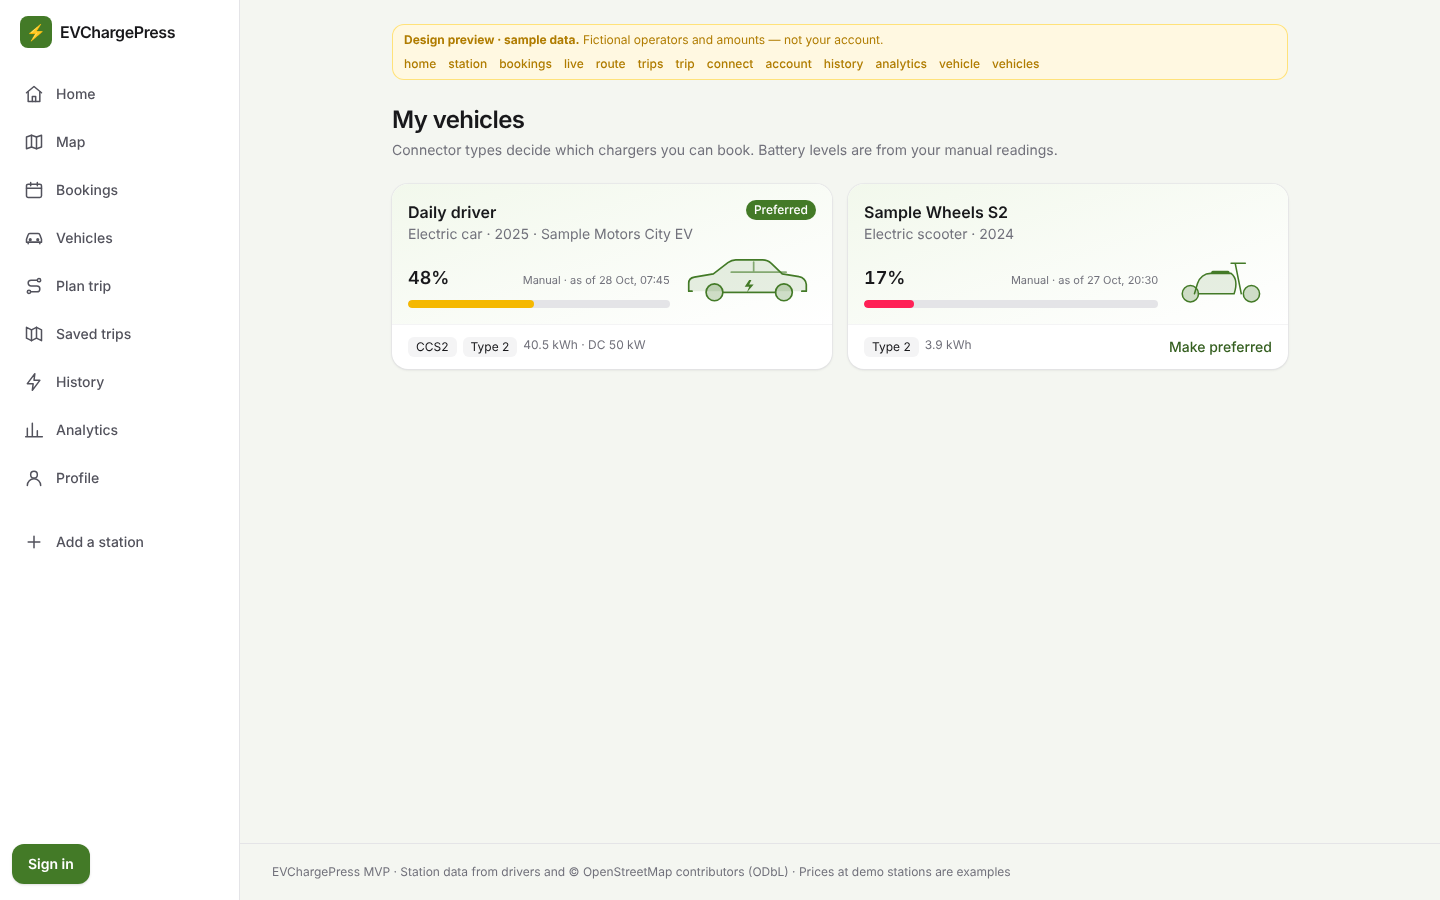
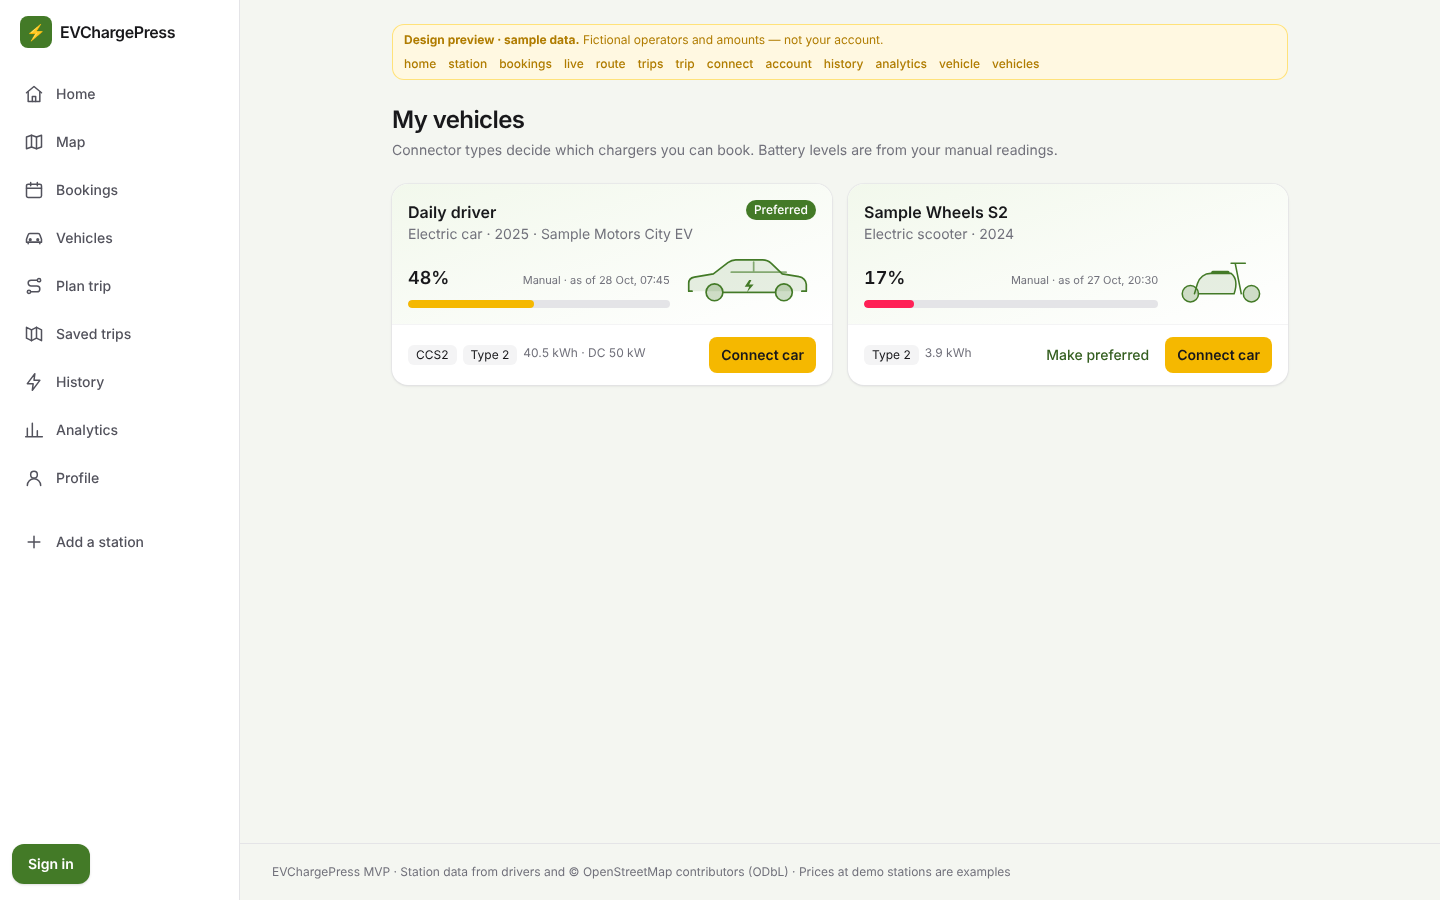
Make Connect car easy to find: buttons on My vehicles cards, vehicle header and account menu

Changed region(s): [[0.2812, 0.3733, 0.6875, 0.4356], [0.7188, 0.3733, 0.9062, 0.4356]]

diff --git a/web/src/app/vehicles/page.tsx b/web/src/app/vehicles/page.tsx
@@ -3,6 +3,7 @@ import Link from "next/link";
 import { redirect } from "next/navigation";
 import { setPreferredVehicle } from "@/app/account/actions";
 import { VehicleCard } from "@/components/charging/VehicleCard";
+import { PlugIcon } from "@/components/nav/icons";
 import { getCurrentUser } from "@/lib/supabase/server";
 import { getProfile, latestReadings, listVehicles } from "@/server/account";
 import { connectionsFor } from "@/server/vehicle-connect";
@@ -22,7 +23,7 @@ export default async function VehiclesPage({ searchParams }: PageProps<"/vehicle
       <div className="flex flex-wrap items-center justify-between gap-3">
         <div>
           <h1 className="text-2xl font-semibold tracking-tight">My vehicles</h1>
-          <p className="mt-1 text-sm text-zinc-500">Connector types decide which chargers you can book. Battery levels are from your manual readings.</p>
+          <p className="mt-1 text-sm text-zinc-500">Connector types decide which chargers you can book. Tap <strong>Connect car</strong> to read battery, range and location from the car itself.</p>
         </div>
         <Link href="/vehicles/new" className="inline-flex min-h-11 items-center rounded-xl bg-energy-600 px-4 text-sm font-medium text-white shadow-sm hover:bg-energy-700">
           Add vehicle
@@ -47,12 +48,19 @@ export default async function VehiclesPage({ searchParams }: PageProps<"/vehicle
                 preferred={preferred}
                 connected={connections[v.id] && connections[v.id].status !== "pending" ? { simulated: connections[v.id].provider === "simulator" || connections[v.id].mode === "simulated" } : null}
                 action={
-                  !preferred && (
-                    <form action={setPreferredVehicle}>
-                      <input type="hidden" name="id" value={v.id} />
-                      <button className="min-h-9 rounded-lg px-3 text-sm font-medium text-energy-700 hover:bg-energy-50 dark:text-energy-400 dark:hover:bg-energy-500/10">Make preferred</button>
-                    </form>
-                  )
+                  <span className="flex flex-wrap items-center gap-1">
+                    {!preferred && (
+                      <form action={setPreferredVehicle}>
+                        <input type="hidden" name="id" value={v.id} />
+                        <button className="min-h-9 rounded-lg px-3 text-sm font-medium text-energy-700 hover:bg-energy-50 dark:text-energy-400 dark:hover:bg-energy-500/10">Make preferred</button>
+                      </form>
+                    )}
+                    {!(connections[v.id] && connections[v.id].status !== "pending") && (
+                      <Link href={`/vehicles/${v.id}#connect`} className="inline-flex min-h-9 items-center gap-1.5 rounded-lg bg-charge-400 px-3 text-sm font-semibold text-zinc-900 hover:bg-charge-300">
+                        <PlugIcon className="h-4 w-4" /> Connect car
+                      </Link>
+                    )}
+                  </span>
                 }
               />
             );

diff --git a/web/src/app/preview/[screen]/page.tsx b/web/src/app/preview/[screen]/page.tsx
@@ -248,7 +248,9 @@ export default async function PreviewPage({ params, searchParams }: PageProps<"/
           pricePerKwhMinor={averagePricePerKwhMinor(previewItems)}
           priceBasis="your average for this vehicle"
           now={PREVIEW_NOW}
-          preferredSlot={<span className="rounded-full bg-white/20 px-2.5 py-1 text-xs font-medium ring-1 ring-inset ring-white/30">Preferred</span>}
+          preferredSlot={<><span className="rounded-full bg-white/20 px-2.5 py-1 text-xs font-medium ring-1 ring-inset ring-white/30">Preferred</span>
+            <span className="inline-flex min-h-9 items-center rounded-full bg-charge-400 px-3 text-sm font-semibold text-zinc-900">Connect car</span></>}
+          connectSlot={<VehicleConnectPanel vehicleId={v.id} connection={null} telemetry={[]} smartcarAvailable={false} smartcarTestMode notice={null} now={PREVIEW_NOW.getTime()} demo />}
           readingForm={<BatteryReadingForm vehicleId={v.id} />}
         />
       </div>
@@ -260,12 +262,13 @@ export default async function PreviewPage({ params, searchParams }: PageProps<"/
       <Banner />
       <div>
         <h1 className="text-2xl font-semibold tracking-tight">My vehicles</h1>
-        <p className="mt-1 text-sm text-zinc-500">Connector types decide which chargers you can book. Battery levels are from your manual readings.</p>
+        <p className="mt-1 text-sm text-zinc-500">Connector types decide which chargers you can book. Tap <strong>Connect car</strong> to read battery, range and location from the car itself.</p>
       </div>
       <ul className="grid gap-4 sm:grid-cols-2">
         {previewVehicles.map((v, i) => (
           <VehicleCard key={v.id} vehicle={v} latest={previewLatest[v.id]} preferred={i === 0}
-            action={i ? <span className="text-sm font-medium text-energy-700">Make preferred</span> : undefined} />
+            action={<span className="flex flex-wrap items-center gap-1">{i ? <span className="px-3 text-sm font-medium text-energy-700">Make preferred</span> : null}
+              <Link href="/preview/connect" className="inline-flex min-h-9 items-center rounded-lg bg-charge-400 px-3 text-sm font-semibold text-zinc-900">Connect car</Link></span>} />
         ))}
       </ul>
     </div>

diff --git a/web/src/app/vehicles/[id]/page.tsx b/web/src/app/vehicles/[id]/page.tsx
@@ -9,6 +9,7 @@ import { upcomingBriefs } from "@/lib/booking-brief";
 import { averagePricePerKwhMinor, toHistoryItems } from "@/lib/charging-stats";
 import { getCurrentUser } from "@/lib/supabase/server";
 import { getProfile, getVehicle, listBatteryReadings, listFinishedBookings, listSessions } from "@/server/account";
+import { PlugIcon } from "@/components/nav/icons";
 import { VehicleConnectPanel, type ConnectNotice } from "@/components/vehicles/VehicleConnectPanel";
 import { smartcarConfigured, smartcarMode } from "@/server/smartcar";
 import { connectionsFor, syncSmartcar, telemetry } from "@/server/vehicle-connect";
@@ -74,6 +75,10 @@ export default async function VehiclePage({ params, searchParams }: PageProps<"/
               <button className="min-h-9 rounded-full bg-white/15 px-3 text-sm font-medium ring-1 ring-inset ring-white/30 hover:bg-white/25">Make preferred</button>
             </form>
           )}
+          <Link href="#connect" className="inline-flex min-h-9 items-center gap-1.5 rounded-full bg-charge-400 px-3 text-sm font-semibold text-zinc-900 hover:bg-charge-300">
+            <PlugIcon className="h-4 w-4" />
+            {connection && connection.status !== "pending" ? (connection.provider === "simulator" || connection.mode === "simulated" ? "Simulated car" : "Car connected") : "Connect car"}
+          </Link>
           {!editing && (
             <Link href={`/vehicles/${vehicle.id}?edit=1#edit`} className="inline-flex min-h-9 items-center rounded-full bg-white px-3 text-sm font-medium text-energy-800 hover:bg-energy-50">Edit</Link>
           )}

diff --git a/web/src/components/UserMenu.tsx b/web/src/components/UserMenu.tsx
@@ -10,7 +10,7 @@ function initialsOf(name: string) {
 
 const LINKS = [
   { href: "/profile", label: "My profile" },
-  { href: "/vehicles", label: "My vehicles" },
+  { href: "/vehicles", label: "My vehicles · Connect car" },
   { href: "/trips", label: "Saved trips" },
   { href: "/history", label: "Charging history" },
   { href: "/analytics", label: "Analytics" },
